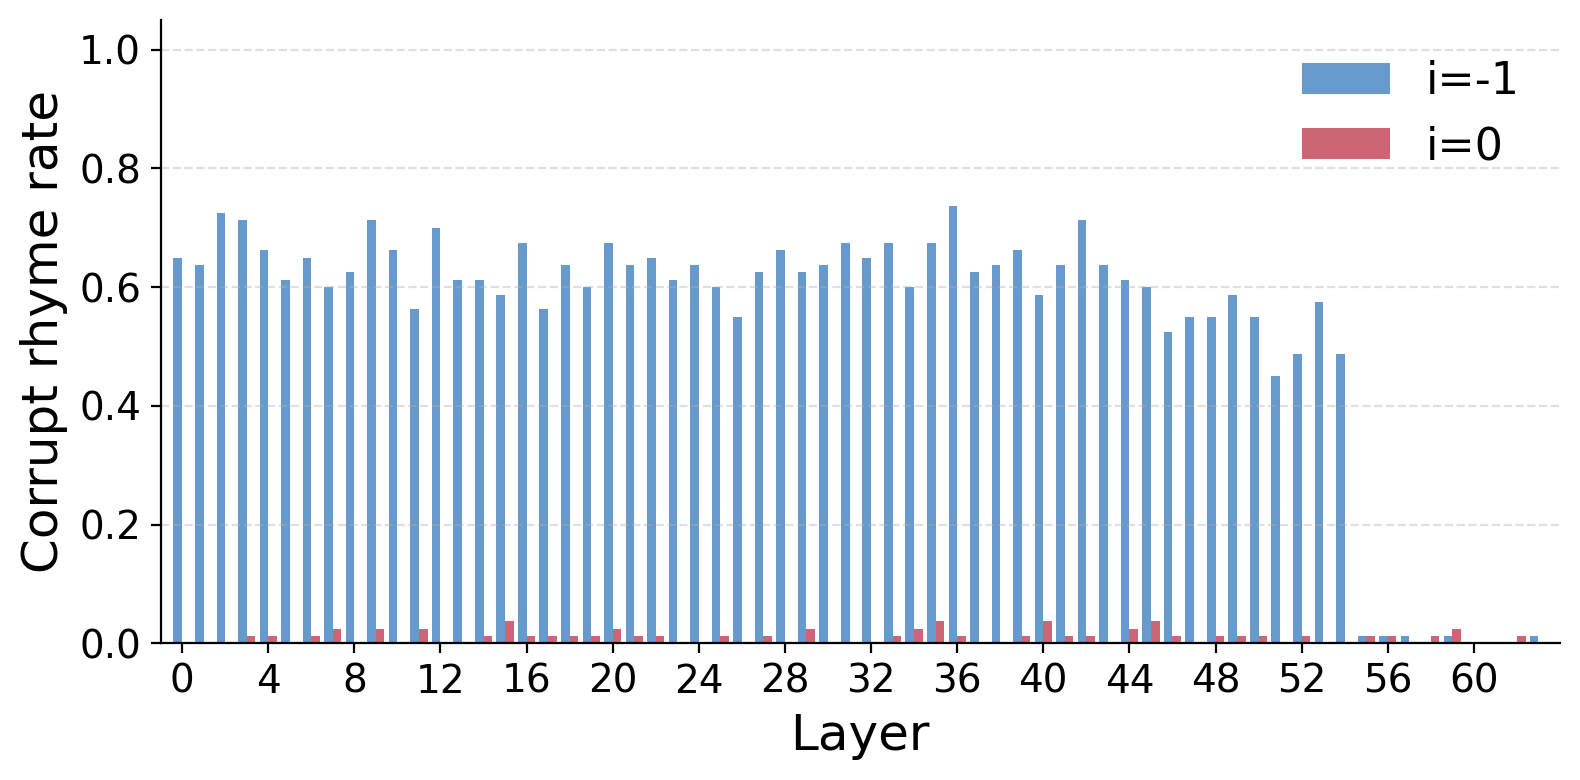
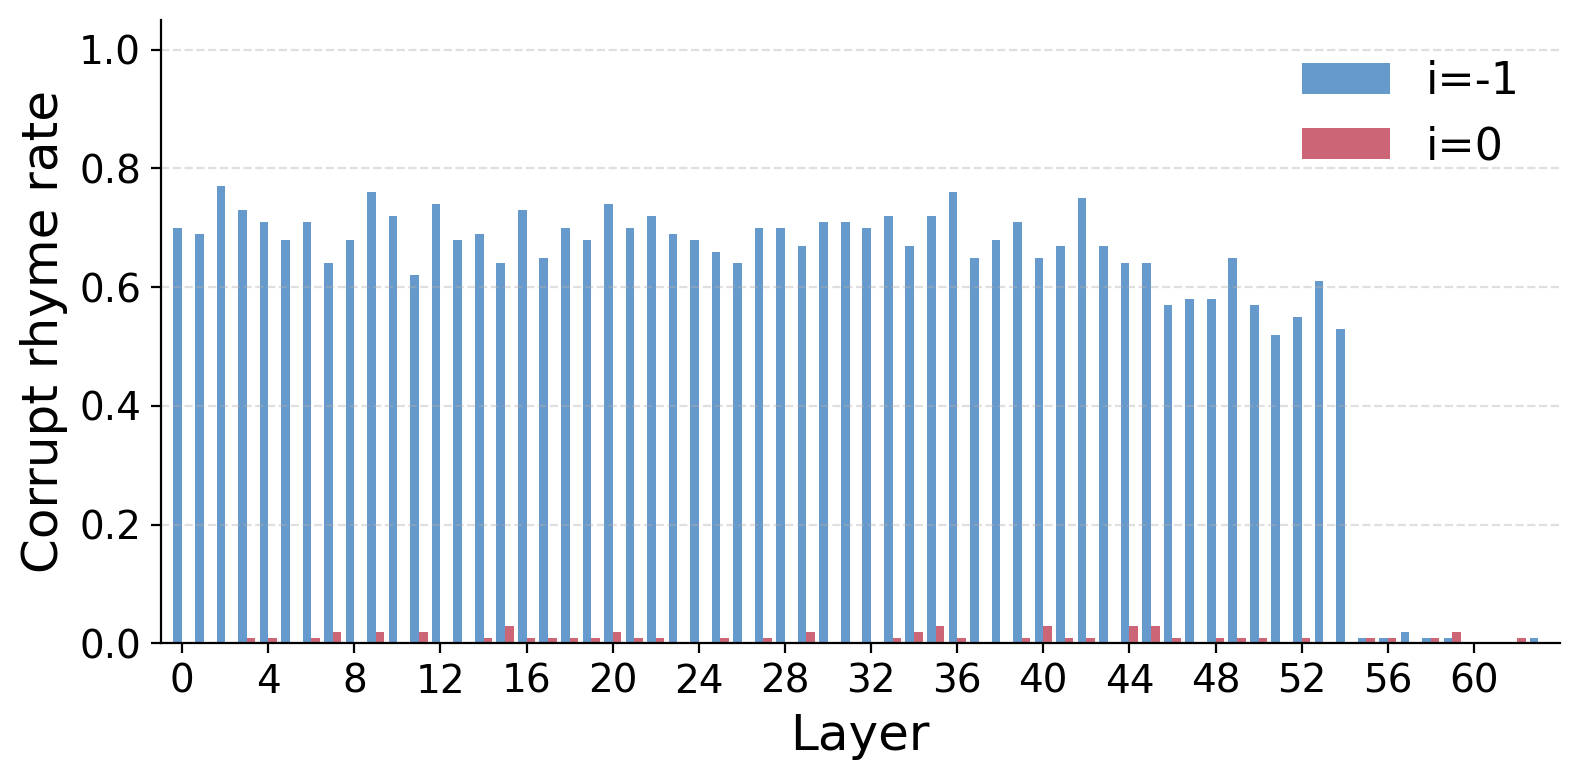
fix: remove unused refs

diff --git a/activation-patching/plot_main_per_layer.py b/activation-patching/plot_main_per_layer.py
@@ -1,50 +1,138 @@
 """
-Regenerate the three main per-layer figures with consistent taller aspect ratio:
-  - patching_qwen3_32b.png   (Qwen3-32B,   i=-1 + i=0)
-  - patching_gemma3_27b.png  (Gemma-3-27B, i=-2 + i=0)
-  - patching_llama_70b.png   (Llama-3.1-70B, i=-1 + i=0)
+Regenerate the three main per-layer figures with consistent aspect ratio.
 
-All saved at figsize=(8, 4) to match the Llama-70B figure.
+For Qwen3-32B and Gemma-3-27B the canonical aggregate.json contains 4 prompt
+pairs (doom/dread, bliss/joy, dark/night, grief/pain). The 5th pair
+(fright/fear) was run separately as a per-position N=100 single-prompt
+experiment in {QWEN3,GEMMA3}_PER_LAYER. To produce true 5-pair means at
+N=20 per pair (matching Llama-3.1-70B's run), we take the first 20
+completions from each fright/fear per-position run and merge with the
+4-pair aggregate.
 """
 
 import json
 import os
+import pronouncing
 import matplotlib.pyplot as plt
 import numpy as np
 
 ROOT = os.path.dirname(os.path.abspath(__file__))
 RES = os.path.join(ROOT, "results")
 OUT = os.path.join(ROOT, "..", "icml2026", "media", "results-patching")
+N_FEAR = 20  # samples per layer to take from fright/fear N=100 runs
 
-# (out_filename, agg_path, last_word_pos_id, last_word_label, fmt)
+# Map pos_id -> directory token used in the {QWEN3,GEMMA3}_PER_LAYER runs
+FEAR_DIR_MAP = {
+    "i_minus2": "exp_fear_minus2",
+    "i_minus1": "exp_fear_minus1",
+    "i_0":      "exp_fear_newline",
+    "i_plus1":  "exp_fear_and",
+    "i_plus2":  "exp_fear_hoped",
+    "i_plus3":  "exp_fear_that",
+}
+
+# (out_filename, agg_path, last_word_pos_id, last_word_label, fmt, fear_subdir_or_None)
 JOBS = [
     ("patching_qwen3_32b.png",
      f"{RES}/QWEN3_AGGREGATE/qwen3_32b_aggregate_N20/aggregate.json",
-     "i_minus1", "i=-1", "canonical"),
+     "i_minus1", "i=-1", "canonical",
+     f"{RES}/QWEN3_PER_LAYER"),
     ("patching_gemma3_27b.png",
      f"{RES}/GEMMA3_AGGREGATE/gemma3_27b_aggregate_N20/aggregate.json",
-     "i_minus2", "i=-2", "canonical"),
+     "i_minus2", "i=-2", "canonical",
+     f"{RES}/GEMMA3_PER_LAYER"),
     ("patching_llama_70b.png",
      f"{RES}/llama-3.1-70b-per-layer-per-position/aggregate.json",
-     "i_minus1", "i=-1", "minimal"),
+     "i_minus1", "i=-1", "minimal",
+     None),
 ]
 
 
-def load_rates(path, lw_pos, fmt):
+# ── Rhyme helpers (needed for re-evaluating first-N completions) ──
+
+def _rhyme_score(w1, w2):
+    p1 = pronouncing.phones_for_word(w1.lower().strip())
+    p2 = pronouncing.phones_for_word(w2.lower().strip())
+    if not p1 or not p2:
+        return None
+    rp1 = pronouncing.rhyming_part(p1[0])
+    rp2 = pronouncing.rhyming_part(p2[0])
+    return (rp1 == rp2) if (rp1 and rp2) else None
+
+def _last_word(text):
+    for w in reversed(text.split()):
+        cleaned = w.strip(".,!?\"'—;: ")
+        if cleaned.isalpha():
+            return cleaned.lower()
+    return ""
+
+def _word_before_nth_newline(text, n):
+    nls = [i for i, ch in enumerate(text) if ch == "\n"]
+    if n <= 0 or len(nls) < n:
+        return ""
+    end   = nls[n - 1]
+    start = nls[n - 2] + 1 if n >= 2 else 0
+    return _last_word(text[start:end])
+
+def _extract_rhyme_word(full_text, prompt):
+    idx = prompt.count("\n") + 1
+    w = _word_before_nth_newline(full_text, idx)
+    if w:
+        return w
+    if full_text.startswith(prompt):
+        return _last_word(full_text[len(prompt):])
+    return _last_word(full_text)
+
+def _rhyme_rate(completions, prompt, rhyme_word):
+    hits = sum(1 for c in completions
+               if _rhyme_score(_extract_rhyme_word(c, prompt), rhyme_word) is True)
+    return hits / len(completions) if completions else 0.0
+
+
+def load_fear_corrupt_rate_per_layer(fear_dir, pos_id, n=N_FEAR):
+    """First-n corrupt-rhyme-rate per layer from the fright/fear single-prompt run."""
+    exp_id = FEAR_DIR_MAP[pos_id]
+    candidates = [d for d in os.listdir(fear_dir) if exp_id in d]
+    if not candidates:
+        return None
+    run_dir = os.path.join(fear_dir, sorted(candidates)[0])
+    with open(os.path.join(run_dir, "generations.json")) as f:
+        data = json.load(f)
+    clean_prompt   = data["clean_prompt"]
+    corrupt_word   = data["corrupt_rhyme_word"]
+    rates = []
+    for layer_data in data["results"]:
+        comps = layer_data["completions"][:n]
+        rates.append(_rhyme_rate(comps, clean_prompt, corrupt_word))
+    return rates
+
+
+def load_rates(path, lw_pos, fmt, fear_dir):
     with open(path) as f:
         d = json.load(f)
     agg = d["aggregate"]
     if fmt == "canonical":
-        m1 = [r["mean_corrupt_rhyme_rate"] for r in agg[lw_pos]]
-        i0 = [r["mean_corrupt_rhyme_rate"] for r in agg["i_0"]]
+        m1_4pair = np.array([r["mean_corrupt_rhyme_rate"] for r in agg[lw_pos]])
+        i0_4pair = np.array([r["mean_corrupt_rhyme_rate"] for r in agg["i_0"]])
+        # If we have fright/fear data, merge to make a 5-pair mean
+        if fear_dir is not None:
+            fear_m1 = load_fear_corrupt_rate_per_layer(fear_dir, lw_pos)
+            fear_i0 = load_fear_corrupt_rate_per_layer(fear_dir, "i_0")
+            if fear_m1 is not None and fear_i0 is not None:
+                fear_m1 = np.array(fear_m1)
+                fear_i0 = np.array(fear_i0)
+                m1 = (4 * m1_4pair + fear_m1) / 5
+                i0 = (4 * i0_4pair + fear_i0) / 5
+                return list(m1), list(i0)
+        return list(m1_4pair), list(i0_4pair)
     else:
         m1 = [r["corrupt_rhyme_rate"] for r in agg[lw_pos]]
         i0 = [r["corrupt_rhyme_rate"] for r in agg["i_0"]]
-    return m1, i0
+        return m1, i0
 
 
-for out_name, path, lw_pos, lw_label, fmt in JOBS:
-    m1, i0 = load_rates(path, lw_pos, fmt)
+for out_name, path, lw_pos, lw_label, fmt, fear_dir in JOBS:
+    m1, i0 = load_rates(path, lw_pos, fmt, fear_dir)
     n = len(m1)
     x = np.arange(n)
     w = 0.4

diff --git a/icml2026/main.tex b/icml2026/main.tex
@@ -67,7 +67,7 @@ Neural networks trained on next-step prediction can develop internal planning re
 
 Investigating planning sites rigorously requires both encoding evidence (what information is present) and causal evidence (what information is used). Probes assess what is encoded in hidden states~\citep{hewitt19,burns24}, but sufficiently flexible probes can achieve high accuracy by memorizing labels rather than reflecting genuine representations~\citep{hewitt19}. Causal tools such as activation patching~\citep{meng23,wang2022ioi} and steering vectors~\citep{turner2023activation,arditi2024refusal} are needed to establish that encoded information actually influences downstream generation. The most expressive existing approach, training transcoders~\citep{transcoders} to build feature circuits~\citep{sparsefeaturecircuits,ameisen2025circuittracing}, provides fine-grained circuit analysis but requires substantial compute (effectively a second training run), has so far been applied only to closed-source models such as Claude 3.5 Haiku~\citep{anthropic-bio}, and does not straightforwardly scale to new open-source architectures. Work by \citet{maar2026whatsplanmetricsimplicit} uses steering vector interventions and finds most open-source models up to 30B parameters keep their planning sites at the last word token; a transcoder-based analysis by \citet{anthropic-bio} on Claude 3.5 Haiku finds evidence of a planning site migrating to the newline. These results motivate a scalable framework for studying planning site formation across model architectures and scales.
 
-In this paper, we define two notions for surfacing evidence of latent planning: the weaker notion of planning-compatible representations (detectable via probing) and the stricter notion of causally active planning sites (established via activation patching). Using only linear probing and activation patching (requiring no transcoder training and far less data than steering vector approaches), we investigate planning site formation across three open-source model families at multiple scales (up to 32B parameters).
+In this paper, we define two notions for surfacing evidence of latent planning: the weaker notion of planning-compatible representations (detectable via probing) and the stricter notion of causally active planning sites (established via activation patching). Using only linear probing and activation patching (requiring no transcoder training and far less data than steering vector approaches), we investigate planning site formation across three open-source model families at multiple scales (up to 70B parameters).
 
 Probing reveals that planning-compatible representations emerge at the newline token with scale across all three families, yet their strength and layer profile vary substantially across architectures. Activation patching reveals a sharp dissociation: only Gemma-3-27B forms a causally active planning site at the newline, exhibiting an information routing handoff in which causal influence migrates from the last word token to the newline around layer 30. All other models, including all Qwen3 sizes up to 32B and all Llama-3 sizes up to 70B, condition on the last word token throughout generation despite encoding planning-compatible representations at the newline. We further localize the handoff in Gemma-3-27B to a sparse set of five attention heads spanning layers 28--34, identified via attention weight ranking and simultaneous head patching. This suggests that planning site formation is a distinct emergent phenomenon tied to specific model scale and architecture, rather than a general consequence of strong planning-compatible representations.
 
@@ -256,7 +256,7 @@ While probing reveals that future token information is encoded in hidden states,
     \label{fig:patch-results}
 \end{figure*}
 
-We apply activation patching at two positions: the last word token (position $i=-1$ in Qwen3 and Llama-3, $i=-2$ in Gemma-3 due to its tokenization of the line-ending comma; see Appendix~\ref{sec:model-config}) and the newline token ($i=0$), sweeping across all layers individually. For each layer, we draw $N=20$ stochastic samples per prompt pair; the main per-layer figures (Figure~\ref{fig:patch-results}) average over 4 prompt pairs ($N{=}80$) for Qwen3-32B and Gemma-3-27B and 5 prompt pairs ($N{=}100$) for Llama-3.1-70B. We additionally include the omitted \texttt{fright/fear} pair as a separate $N{=}100$ run for Gemma-3-27B (used in joint analyses below). Because the same word pairs are reused across layers and positions, the prompt pair is the natural unit of independence; we report 95\% cluster bootstrap intervals (10{,}000 pair-level resamples) on every patching rate, and use a joint cluster bootstrap with shared pair indices when comparing two patching conditions on the same pairs.
+We apply activation patching at two positions: the last word token (position $i=-1$ in Qwen3 and Llama-3, $i=-2$ in Gemma-3 due to its tokenization of the line-ending comma; see Appendix~\ref{sec:model-config}) and the newline token ($i=0$), sweeping across all layers individually. For each layer, we draw $N=20$ stochastic samples per prompt pair; the main per-layer figures (Figure~\ref{fig:patch-results}) average over 5 prompt pairs ($N{=}100$). Because the same word pairs are reused across layers and positions, the prompt pair is the natural unit of independence; we report 95\% cluster bootstrap intervals (10{,}000 pair-level resamples) on every patching rate, and use a joint cluster bootstrap with shared pair indices when comparing two patching conditions on the same pairs.
 
 In Gemma-3-27B (Figure~\ref{fig:patch-gemma}), last-word patching is highly effective in early layers but drops sharply around layer 30, while newline patching rises simultaneously to a peak corrupt rhyme rate of 0.64 [95\% CI 0.45, 0.82] at layer 33. We term this crossover the \textit{representational handoff}: the causal locus migrates from the last word token to the newline, which becomes the primary read-out site for the phonological constraint. The wide CI reflects pair-to-pair variability---one pair sits at 0.10 at layer 33 while the others exceed 0.75---but the qualitative migration is consistent across pairs. By contrast, Qwen3-32B (Figure~\ref{fig:patch-qwen}) and Llama-3.1-70B (Figure~\ref{fig:patch-llama}) show uniformly high last-word patching and near-zero newline patching across every layer, with non-overlapping CIs separating the two positions. These models condition on the last word token throughout generation. Per-layer results for all model sizes are provided in Appendix~\ref{sec:additional-patching-details}, and a steering-vector replication of the same three-model picture is in Appendix~\ref{sec:steering}.
 
@@ -455,10 +455,10 @@ Family & Model & Last Word [95\% CI] & $i=0$ [95\% CI] \\
  & 1B    & 59 [49, 68] & 2 [1, 7]   \\
  & 3B    & 87 [79, 92] & 0 [0, 4]   \\
  & 8B    & 79 [70, 86] & 0 [0, 4]   \\
- & 70B   & 75 [66, 82] & ---        \\
+ & 70B   & 75 [66, 82] & 2 [1, 7]   \\
 \bottomrule
 \end{tabular}
-\caption{Corrupt rhyme rate (\%) when all layers are patched simultaneously, with Wilson 95\% CIs. All cells use $N{=}100$ (5 prompt pairs $\times\ N{=}20$); $^{\dagger}$ indicates the row uses a single \texttt{fright/fear} prompt with $N{=}100$. Llama-3 70B $i=0$ was not captured in the all-layers run. Gemma-3-27B is the only model whose newline-patching CI does not overlap zero, separated by a wide margin from every other model.}
+\caption{Corrupt rhyme rate (\%) when all layers are patched simultaneously, with Wilson 95\% CIs. All cells use $N{=}100$ (5 prompt pairs $\times\ N{=}20$); $^{\dagger}$ indicates the row uses a single \texttt{fright/fear} prompt with $N{=}100$. Gemma-3-27B is the only model whose newline-patching CI does not overlap zero, separated by a wide margin from every other model.}
 \label{tab:patch-all-layers}
 \end{table}
 
@@ -495,7 +495,7 @@ Family & Model & Last Word [95\% CI] & $i=0$ [95\% CI] \\
 \begin{figure}[H]
     \centering
     \includegraphics[width=\linewidth]{media/results-patching/appendix_patching_Llama3-updated.png}
-    \caption{Per-layer activation patching, Llama-3 1B--70B. Black bars are 95\% cluster bootstrap CIs. Last-word peaks are uniformly high (3B 0.91 [0.86, 0.96]; 8B 0.85 [0.73, 0.97]; 70B 0.86 [0.74, 0.96]). Newline patching is at noise across all four sizes (CI upper bounds $\leq 0.09$).}
+    \caption{Per-layer activation patching, Llama-3 1B--70B. Black bars are 95\% cluster bootstrap CIs. Last-word peaks are high from 3B onward (3B 0.91 [0.86, 0.96]; 8B 0.85 [0.73, 0.97]; 70B 0.86 [0.74, 0.96]); 1B is lower (peak 0.66 [0.56, 0.75]). Newline patching is at noise across all four sizes (CI upper bounds $\leq 0.09$).}
     \label{fig:appendix-patch-llama3}
 \end{figure}
 